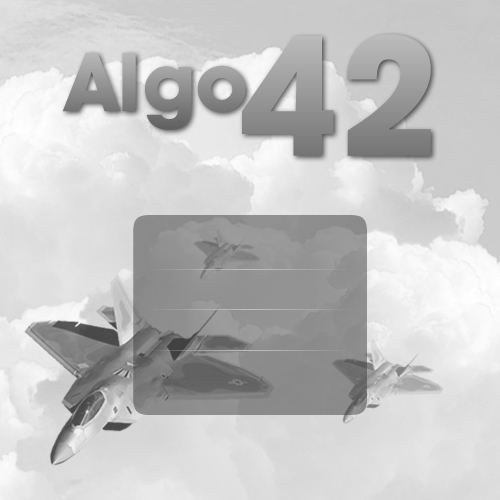
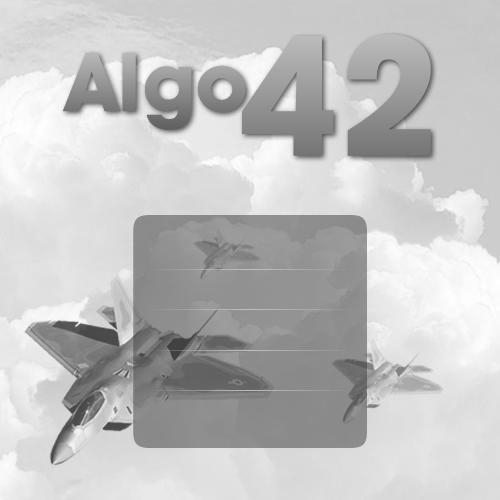
Agregado el menu Como jugar, con indicaciones de controles y demas detalles del juego.

Changed region(s): [[0.24, 0.81, 0.75, 0.9]]

diff --git a/tp2-codigo-fuente/tp2/modelo/menues/menuPrincipal/MenuPrincipal.java b/tp2-codigo-fuente/tp2/modelo/menues/menuPrincipal/MenuPrincipal.java
@@ -22,14 +22,9 @@ public class MenuPrincipal extends Menu  {
 		// Creamos los items de las opciones del menu principal
 		this.agregarItem(new MenuPrincipalItemNuevaPartida(this.getVentanaPrincipal(), this));
 		this.agregarItem(new MenuPrincipalItemCargarPartida(this.getVentanaPrincipal(), this));
+		this.agregarItem(new MenuPrincipalItemComoJugar(this.getVentanaPrincipal(), this));
 		this.agregarItem(new MenuPrincipalItemCreditos(this.getVentanaPrincipal(), this));
 		this.agregarItem(new MenuPrincipalItemSalir(this.getVentanaPrincipal(), this));
-				
-		// Creamos los los menues hijos del menu principal.
-//		this.agregarMenuHijo("Nueva partida", (MenuI) new MenuNuevaPartida());
-//		this.agregarMenuHijo("Cargar partida", (MenuI) new MenuCargarPartida());
-//		this.agregarMenuHijo("Creditos", (MenuI) new MenuCreditos(this.getVentanaPrincipal()));
-//		this.agregarMenuHijo("Salir", (MenuI) new MenuSalir());
 	}
 	
 	public void resetear() {

diff --git a/tp2-codigo-fuente/tp2/vista/menues/menuPrincipal/FabricaDeDibujablesDelMenuPrincipal.java b/tp2-codigo-fuente/tp2/vista/menues/menuPrincipal/FabricaDeDibujablesDelMenuPrincipal.java
@@ -15,6 +15,8 @@ public class FabricaDeDibujablesDelMenuPrincipal {
 		ImagenItemCargarPartidaOver.nuevaImagen();
 		ImagenItemCreditosOut.nuevaImagen();
 		ImagenItemCreditosOver.nuevaImagen();
+		ImagenItemComoJugarOut.nuevaImagen();
+		ImagenItemComoJugarOver.nuevaImagen();
 		ImagenItemSalirOut.nuevaImagen();
 		ImagenItemSalirOver.nuevaImagen();
 		imagenesCargadas = true;
@@ -60,6 +62,16 @@ public class FabricaDeDibujablesDelMenuPrincipal {
 	public static Dibujable nuevaImagenItemCreditosOver() {
 		comprobarCargaDeImagenes();
 		return ImagenItemCreditosOver.nuevaImagen();
+	}
+	
+	public static Dibujable nuevaImagenItemComoJugarOut() {
+		comprobarCargaDeImagenes();
+		return ImagenItemComoJugarOut.nuevaImagen();
+	}
+	
+	public static Dibujable nuevaImagenItemComoJugarOver() {
+		comprobarCargaDeImagenes();
+		return ImagenItemComoJugarOver.nuevaImagen();
 	}
 	
 	public static Dibujable nuevaImagenItemSalirOut() {

diff --git a/tp2-codigo-fuente/tp2/vista/menues/menuPrincipal/ImagenItemComoJugarOver.java b/tp2-codigo-fuente/tp2/vista/menues/menuPrincipal/ImagenItemComoJugarOver.java
@@ -1,0 +1,27 @@
+package tp2.vista.menues.menuPrincipal;
+
+import ar.uba.fi.algo3.titiritero.vista.Imagen;
+
+public class ImagenItemComoJugarOver extends Imagen {
+	
+	public static ImagenItemComoJugarOver imagenPrincipal; 
+
+	private ImagenItemComoJugarOver() {
+		this.setNombreArchivoImagen("/tp2/vista/imagenes/menues/menu-principal-item-over-como-jugar.png");
+	}
+
+	private ImagenItemComoJugarOver(Imagen imagen) {
+		super(imagen);
+	}
+	
+	private static void crearImagenPrincipal(){
+		imagenPrincipal = new ImagenItemComoJugarOver();
+	}
+	
+	public static ImagenItemComoJugarOver nuevaImagen(){
+		if(imagenPrincipal == null){
+			crearImagenPrincipal();
+		}
+		return new ImagenItemComoJugarOver(imagenPrincipal);
+	}
+}

diff --git a/tp2-codigo-fuente/tp2/vista/menues/menuPrincipal/ImagenItemComoJugarOut.java b/tp2-codigo-fuente/tp2/vista/menues/menuPrincipal/ImagenItemComoJugarOut.java
@@ -1,0 +1,27 @@
+package tp2.vista.menues.menuPrincipal;
+
+import ar.uba.fi.algo3.titiritero.vista.Imagen;
+
+public class ImagenItemComoJugarOut extends Imagen {
+	
+	public static ImagenItemComoJugarOut imagenPrincipal; 
+
+	private ImagenItemComoJugarOut() {
+		this.setNombreArchivoImagen("/tp2/vista/imagenes/menues/menu-principal-item-out-como-jugar.png");
+	}
+
+	private ImagenItemComoJugarOut(Imagen imagen) {
+		super(imagen);
+	}
+	
+	private static void crearImagenPrincipal(){
+		imagenPrincipal = new ImagenItemComoJugarOut();
+	}
+	
+	public static ImagenItemComoJugarOut nuevaImagen(){
+		if(imagenPrincipal == null){
+			crearImagenPrincipal();
+		}
+		return new ImagenItemComoJugarOut(imagenPrincipal);
+	}
+}

diff --git a/tp2-codigo-fuente/tp2/vista/menues/menuComoJugar/ImagenFondoMenuComoJugar.java b/tp2-codigo-fuente/tp2/vista/menues/menuComoJugar/ImagenFondoMenuComoJugar.java
@@ -1,0 +1,28 @@
+package tp2.vista.menues.menuComoJugar;
+
+import ar.uba.fi.algo3.titiritero.vista.Imagen;
+
+public class ImagenFondoMenuComoJugar extends Imagen {
+	
+	public static ImagenFondoMenuComoJugar imagenPrincipal; 
+
+	private ImagenFondoMenuComoJugar() {
+		this.setNombreArchivoImagen("/tp2/vista/imagenes/menues/como-jugar-fondo.jpg");
+	}
+
+	private ImagenFondoMenuComoJugar(Imagen imagen) {
+		super(imagen);
+	}
+	
+	private static void crearImagenPrincipal(){
+		imagenPrincipal = new ImagenFondoMenuComoJugar();
+	}
+	
+	public static ImagenFondoMenuComoJugar nuevaImagen(){
+		if(imagenPrincipal == null){
+			crearImagenPrincipal();
+		}
+		return new ImagenFondoMenuComoJugar(imagenPrincipal);
+	}
+
+}

diff --git a/tp2-codigo-fuente/tp2/vista/menues/menuComoJugar/FabricaDeDibujablesDelMenuComoJugar.java b/tp2-codigo-fuente/tp2/vista/menues/menuComoJugar/FabricaDeDibujablesDelMenuComoJugar.java
@@ -1,0 +1,25 @@
+package tp2.vista.menues.menuComoJugar;
+
+import ar.uba.fi.algo3.titiritero.Dibujable;
+
+public class FabricaDeDibujablesDelMenuComoJugar {
+	
+	private static boolean imagenesCargadas = false;
+	
+	private static void cargarImagenes() {
+		ImagenFondoMenuComoJugar.nuevaImagen();
+		imagenesCargadas = true;
+	}
+	
+	public static void comprobarCargaDeImagenes() {
+		
+		if(!imagenesCargadas){
+			cargarImagenes();
+		}
+	}
+	
+	public static Dibujable nuevaImagenFondoMenuComoJugar() {
+		comprobarCargaDeImagenes();
+		return ImagenFondoMenuComoJugar.nuevaImagen();
+	}
+}

diff --git a/tp2-codigo-fuente/tp2/vista/menues/menuComoJugar/VistaMenuComoJugar.java b/tp2-codigo-fuente/tp2/vista/menues/menuComoJugar/VistaMenuComoJugar.java
@@ -1,0 +1,11 @@
+package tp2.vista.menues.menuComoJugar;
+
+import tp2.vista.menues.VistaMenu;
+import ar.uba.fi.algo3.titiritero.vista.Imagen;
+
+public class VistaMenuComoJugar extends VistaMenu  {
+
+	public VistaMenuComoJugar() {
+		super((Imagen) FabricaDeDibujablesDelMenuComoJugar.nuevaImagenFondoMenuComoJugar());
+	}
+}
